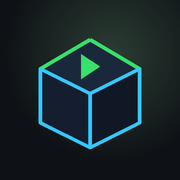
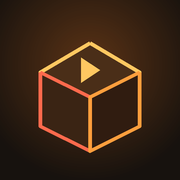
Add files via upload

diff --git a/index.html b/index.html
@@ -3,9 +3,12 @@
 <head>
 <meta charset="utf-8">
 <meta name="viewport" content="width=device-width, initial-scale=1, viewport-fit=cover">
-<meta name="theme-color" content="#0e1116">
+<meta name="theme-color" content="#17120e">
 <title>Play Roblox in Your Browser</title>
-<meta name="description" content="A free launcher that opens Roblox in your browser through the now.gg cloud. No download, no install — works on iPad, Chromebook, phone and PC.">
+<meta name="description" content="Play Roblox free in your browser — powered by now.gg's cloud. No download, no install. Works on iPad, Chromebook, phone and PC.">
+<meta name="apple-mobile-web-app-capable" content="yes">
+<meta name="mobile-web-app-capable" content="yes">
+<meta name="apple-mobile-web-app-status-bar-style" content="black-translucent">
 <meta name="apple-mobile-web-app-title" content="Browser Play">
 <link rel="apple-touch-icon" href="apple-touch-icon.png">
 <link rel="icon" href="icon-192.png">
@@ -13,17 +16,18 @@
 <link rel="preconnect" href="https://fonts.googleapis.com">
 <link rel="stylesheet" href="https://fonts.googleapis.com/css2?family=Sora:wght@500;700;800&family=Inter:wght@400;500;600&display=swap">
 <style>
-/* Layout: dark cloud-gaming landing page — hero launch panel, steps, device grid, FAQ. Deliberate single dark look. */
+/* Layout: warm cloud-gaming landing page — ember hero with launch panel, steps, device grid, trust band, FAQ. Deliberate single warm-dark look. */
 :root {
-  --bg: #0e1116;
-  --bg2: #141924;
-  --panel: #1a2130;
-  --line: rgba(255,255,255,0.09);
-  --ink: #eef2f8;
-  --dim: #97a1b4;
-  --lime: #37e06a;
-  --cyan: #35c7ff;
-  --violet: #8b7bff;
+  --bg: #17120e;
+  --bg2: #1f1811;
+  --panel: #271e15;
+  --line: rgba(255, 210, 160, 0.12);
+  --ink: #f8efe3;
+  --dim: #c3ab93;
+  --amber: #ff9e3d;
+  --coral: #ff6a4d;
+  --gold: #ffc861;
+  --amber-ink: #3a1e05;
   --display: "Sora", system-ui, sans-serif;
   --body: "Inter", system-ui, sans-serif;
   color-scheme: dark;
@@ -35,47 +39,48 @@ img { max-width: 100%; display: block; }
 a { color: inherit; }
 .wrap { width: 100%; max-width: 1040px; margin-inline: auto; padding-left: max(20px, env(safe-area-inset-left)); padding-right: max(20px, env(safe-area-inset-right)); }
 h1, h2, h3 { font-family: var(--display); margin: 0; line-height: 1.1; text-wrap: balance; }
-.eyebrow { font: 700 12px var(--display); letter-spacing: .2em; text-transform: uppercase; color: var(--lime); }
+.eyebrow { font: 700 12px var(--display); letter-spacing: .2em; text-transform: uppercase; color: var(--amber); }
 
 /* nav */
-header { position: sticky; top: 0; z-index: 20; backdrop-filter: blur(12px); background: rgba(14,17,22,.72); border-bottom: 1px solid var(--line); }
+header { position: sticky; top: 0; z-index: 20; backdrop-filter: blur(12px); background: rgba(23,18,14,.74); border-bottom: 1px solid var(--line); }
 header::before { content: ""; position: fixed; inset: 0 0 auto; height: env(safe-area-inset-top); background: var(--bg); z-index: 21; }
 .nav { display: flex; align-items: center; justify-content: space-between; height: 62px; padding-top: env(safe-area-inset-top); }
 .brand { display: flex; align-items: center; gap: 11px; font: 800 19px var(--display); letter-spacing: .01em; }
 .cube { width: 30px; height: 30px; flex: none; }
-.navbtn { font: 700 14px var(--display); letter-spacing: .02em; padding: 9px 18px; border-radius: 10px; background: var(--lime); color: #06240f; text-decoration: none; border: 0; cursor: pointer; }
+.navbtn { font: 700 14px var(--display); letter-spacing: .02em; padding: 9px 18px; border-radius: 11px; background: linear-gradient(100deg, var(--amber), var(--gold)); color: var(--amber-ink); text-decoration: none; border: 0; cursor: pointer; }
 
 /* hero */
-.hero { position: relative; padding: 56px 0 40px; overflow: hidden; }
-.glow { position: absolute; border-radius: 50%; filter: blur(70px); opacity: .5; z-index: 0; }
-.glow.a { width: 420px; height: 420px; background: var(--lime); top: -180px; right: -80px; opacity: .22; }
-.glow.b { width: 360px; height: 360px; background: var(--cyan); bottom: -200px; left: -120px; opacity: .18; }
+.hero { position: relative; padding: 56px 0 44px; overflow: hidden; }
+.glow { position: absolute; border-radius: 50%; filter: blur(80px); z-index: 0; }
+.glow.a { width: 440px; height: 440px; background: var(--coral); top: -170px; right: -70px; opacity: .3; }
+.glow.b { width: 380px; height: 380px; background: var(--amber); bottom: -200px; left: -130px; opacity: .22; }
+.glow.c { width: 300px; height: 300px; background: var(--gold); top: 40%; left: 40%; opacity: .1; }
 .hero .wrap { position: relative; z-index: 1; }
 .hgrid { display: grid; grid-template-columns: 1.15fr 1fr; gap: 40px; align-items: center; }
 .hero h1 { font-size: clamp(36px, 6.4vw, 60px); font-weight: 800; letter-spacing: -.02em; margin-top: 16px; }
-.hero h1 b { background: linear-gradient(100deg, var(--lime), var(--cyan)); -webkit-background-clip: text; background-clip: text; color: transparent; font-weight: 800; }
+.hero h1 b { background: linear-gradient(100deg, var(--gold), var(--coral)); -webkit-background-clip: text; background-clip: text; color: transparent; font-weight: 800; }
 .hero p.lead { color: var(--dim); font-size: clamp(16px, 2.3vw, 19px); margin: 18px 0 26px; max-width: 46ch; }
 .cta { display: flex; flex-wrap: wrap; gap: 12px; align-items: center; }
-.play { display: inline-flex; align-items: center; gap: 12px; font: 800 18px var(--display); letter-spacing: .01em; text-decoration: none; padding: 16px 28px; border-radius: 14px; color: #06240f; background: linear-gradient(100deg, var(--lime), #6ef08f); box-shadow: 0 10px 30px rgba(55,224,106,.3); transition: transform .12s, box-shadow .12s; }
-.play:hover { transform: translateY(-2px); box-shadow: 0 16px 40px rgba(55,224,106,.42); }
+.play { display: inline-flex; align-items: center; gap: 12px; font: 800 18px var(--display); letter-spacing: .01em; text-decoration: none; padding: 16px 28px; border-radius: 14px; color: var(--amber-ink); background: linear-gradient(100deg, var(--amber), var(--gold)); box-shadow: 0 10px 32px rgba(255,138,61,.4); transition: transform .12s, box-shadow .12s; }
+.play:hover { transform: translateY(-2px); box-shadow: 0 16px 44px rgba(255,138,61,.52); }
 .play svg { width: 22px; height: 22px; }
 .sub { font-size: 13px; color: var(--dim); }
 .pill { display: inline-flex; align-items: center; gap: 7px; font-size: 13px; color: var(--dim); }
-.pill::before { content: ""; width: 7px; height: 7px; border-radius: 50%; background: var(--lime); box-shadow: 0 0 8px var(--lime); }
+.pill::before { content: ""; width: 7px; height: 7px; border-radius: 50%; background: var(--gold); box-shadow: 0 0 9px var(--gold); }
 
 /* launch card art */
-.screen { position: relative; aspect-ratio: 4 / 3; border-radius: 18px; background: radial-gradient(130% 120% at 30% 10%, #23304a 0%, #131a27 60%); border: 1px solid var(--line); overflow: hidden; box-shadow: 0 30px 70px rgba(0,0,0,.5); }
-.screen .bar { height: 34px; background: #0d131d; display: flex; align-items: center; gap: 6px; padding: 0 12px; border-bottom: 1px solid var(--line); }
-.screen .bar i { width: 10px; height: 10px; border-radius: 50%; background: #39414f; }
-.screen .bar span { margin-left: 10px; font: 500 11px var(--body); color: #5f6b7e; }
+.screen { position: relative; aspect-ratio: 4 / 3; border-radius: 18px; background: radial-gradient(130% 120% at 30% 10%, #4a3016 0%, #211810 62%); border: 1px solid var(--line); overflow: hidden; box-shadow: 0 30px 70px rgba(0,0,0,.5); }
+.screen .bar { height: 34px; background: #1a130d; display: flex; align-items: center; gap: 6px; padding: 0 12px; border-bottom: 1px solid var(--line); }
+.screen .bar i { width: 10px; height: 10px; border-radius: 50%; background: #4a3b2a; }
+.screen .bar span { margin-left: 10px; font: 500 11px var(--body); color: #8a745c; }
 .screen .body { position: absolute; inset: 34px 0 0; display: grid; place-items: center; }
-.playcube { width: 96px; height: 96px; border-radius: 24px; background: linear-gradient(135deg, var(--lime), var(--cyan)); display: grid; place-items: center; box-shadow: 0 14px 40px rgba(53,199,255,.35); animation: float 4s ease-in-out infinite; }
+.playcube { width: 96px; height: 96px; border-radius: 24px; background: linear-gradient(135deg, var(--amber), var(--coral)); display: grid; place-items: center; box-shadow: 0 14px 44px rgba(255,106,77,.45); animation: float 4s ease-in-out infinite; }
 .playcube svg { width: 42px; height: 42px; margin-left: 5px; }
 @keyframes float { 0%,100% { transform: translateY(-6px); } 50% { transform: translateY(6px); } }
 .blocks { position: absolute; inset: 34px 0 0; pointer-events: none; }
-.blk { position: absolute; border-radius: 7px; opacity: .85; }
+.blk { position: absolute; border-radius: 7px; opacity: .9; }
 
-/* generic section */
+/* section */
 section { padding: 52px 0; }
 .shead { text-align: center; max-width: 44ch; margin: 0 auto 36px; }
 .shead h2 { font-size: clamp(26px, 4vw, 38px); font-weight: 700; }
@@ -84,7 +89,7 @@ section { padding: 52px 0; }
 /* steps */
 .steps { display: grid; grid-template-columns: repeat(3, 1fr); gap: 18px; counter-reset: s; }
 .step { background: var(--panel); border: 1px solid var(--line); border-radius: 16px; padding: 24px 22px; position: relative; }
-.step .n { counter-increment: s; font: 800 14px var(--display); width: 34px; height: 34px; border-radius: 10px; display: grid; place-items: center; background: rgba(55,224,106,.14); color: var(--lime); margin-bottom: 14px; }
+.step .n { counter-increment: s; font: 800 14px var(--display); width: 34px; height: 34px; border-radius: 10px; display: grid; place-items: center; background: rgba(255,158,61,.16); color: var(--amber); margin-bottom: 14px; }
 .step .n::before { content: counter(s, decimal-leading-zero); }
 .step h3 { font-size: 19px; font-weight: 700; margin-bottom: 7px; }
 .step p { color: var(--dim); font-size: 14.5px; margin: 0; }
@@ -92,16 +97,25 @@ section { padding: 52px 0; }
 /* devices */
 .devices { display: grid; grid-template-columns: repeat(auto-fit, minmax(140px, 1fr)); gap: 14px; }
 .dev { background: var(--bg2); border: 1px solid var(--line); border-radius: 14px; padding: 20px 16px; text-align: center; }
-.dev svg { width: 34px; height: 34px; margin: 0 auto 10px; color: var(--cyan); }
+.dev svg { width: 34px; height: 34px; margin: 0 auto 10px; color: var(--gold); }
 .dev b { display: block; font: 600 15px var(--body); }
 .dev span { font-size: 12.5px; color: var(--dim); }
 
-/* trust band */
+/* homescreen */
+.appsteps { display: grid; grid-template-columns: repeat(3, 1fr); gap: 16px; }
+.astep { background: var(--panel); border: 1px solid var(--line); border-radius: 16px; padding: 22px; display: grid; gap: 10px; }
+.astep .ic { width: 46px; height: 46px; border-radius: 13px; background: rgba(255,106,77,.14); display: grid; place-items: center; }
+.astep .ic svg { width: 24px; height: 24px; color: var(--coral); }
+.astep b { font: 700 16px var(--display); }
+.astep p { color: var(--dim); font-size: 14px; margin: 0; }
+.astep kbd { font-family: var(--body); font-weight: 600; color: var(--ink); background: rgba(255,200,97,.14); border-radius: 6px; padding: 1px 7px; }
+
+/* trust */
 .trust { background: linear-gradient(180deg, var(--bg2), var(--bg)); border-block: 1px solid var(--line); }
 .tgrid { display: grid; grid-template-columns: repeat(3, 1fr); gap: 20px; }
 .tcard { display: flex; gap: 14px; align-items: flex-start; }
-.tcard .ic { width: 42px; height: 42px; flex: none; border-radius: 12px; background: rgba(53,199,255,.12); display: grid; place-items: center; }
-.tcard .ic svg { width: 22px; height: 22px; color: var(--cyan); }
+.tcard .ic { width: 42px; height: 42px; flex: none; border-radius: 12px; background: rgba(255,200,97,.14); display: grid; place-items: center; }
+.tcard .ic svg { width: 22px; height: 22px; color: var(--gold); }
 .tcard h3 { font-size: 16.5px; font-weight: 700; margin-bottom: 4px; }
 .tcard p { color: var(--dim); font-size: 14px; margin: 0; }
 
@@ -110,14 +124,14 @@ section { padding: 52px 0; }
 details { background: var(--panel); border: 1px solid var(--line); border-radius: 14px; overflow: hidden; }
 summary { cursor: pointer; list-style: none; padding: 18px 20px; font: 700 16px var(--display); display: flex; justify-content: space-between; align-items: center; gap: 12px; }
 summary::-webkit-details-marker { display: none; }
-summary::after { content: "+"; font-size: 24px; color: var(--lime); font-weight: 400; line-height: 1; transition: transform .2s; }
+summary::after { content: "+"; font-size: 24px; color: var(--amber); font-weight: 400; line-height: 1; transition: transform .2s; }
 details[open] summary::after { transform: rotate(45deg); }
 details p { margin: 0; padding: 0 20px 18px; color: var(--dim); font-size: 14.5px; }
-details a { color: var(--lime); }
+details a { color: var(--amber); }
 
-/* final cta */
+/* final */
 .final { text-align: center; }
-.final .box { background: radial-gradient(120% 140% at 50% 0%, #1c2740, #121824); border: 1px solid var(--line); border-radius: 22px; padding: 46px 28px; }
+.final .box { position: relative; overflow: hidden; background: radial-gradient(120% 150% at 50% 0%, #4a2a12, #1c140d); border: 1px solid var(--line); border-radius: 22px; padding: 48px 28px; }
 .final h2 { font-size: clamp(26px, 4vw, 40px); font-weight: 800; }
 .final p { color: var(--dim); max-width: 42ch; margin: 12px auto 26px; }
 
@@ -130,7 +144,7 @@ footer .brand { font-size: 16px; }
 @media (max-width: 820px) {
   .hgrid { grid-template-columns: 1fr; gap: 30px; }
   .screen { max-width: 440px; }
-  .steps, .tgrid { grid-template-columns: 1fr; }
+  .steps, .tgrid, .appsteps { grid-template-columns: 1fr; }
 }
 @media (prefers-reduced-motion: reduce) { .playcube { animation: none; } .play { transition: none; } }
 </style>
@@ -140,7 +154,7 @@ footer .brand { font-size: 16px; }
 <header>
   <div class="wrap nav">
     <div class="brand">
-      <svg class="cube" viewBox="0 0 32 32" aria-hidden="true"><path d="M16 2 29 9v14L16 30 3 23V9z" fill="none" stroke="#37e06a" stroke-width="2" stroke-linejoin="round"/><path d="M3 9l13 7 13-7M16 16v14" stroke="#35c7ff" stroke-width="2" stroke-linejoin="round" fill="none"/></svg>
+      <svg class="cube" viewBox="0 0 32 32" aria-hidden="true"><path d="M16 2 29 9v14L16 30 3 23V9z" fill="none" stroke="#ff9e3d" stroke-width="2" stroke-linejoin="round"/><path d="M3 9l13 7 13-7M16 16v14" stroke="#ff6a4d" stroke-width="2" stroke-linejoin="round" fill="none"/></svg>
       Browser&nbsp;Play
     </div>
     <a class="navbtn" href="https://now.gg/apps/roblox-corporation/5349/roblox.html" target="_blank" rel="noopener">Launch&nbsp;▸</a>
@@ -149,13 +163,13 @@ footer .brand { font-size: 16px; }
 
 <main>
   <section class="hero">
-    <div class="glow a"></div><div class="glow b"></div>
+    <div class="glow a"></div><div class="glow b"></div><div class="glow c"></div>
     <div class="wrap">
       <div class="hgrid">
         <div>
-          <span class="eyebrow">No download · No install</span>
+          <span class="eyebrow">Free · No download · No install</span>
           <h1>Play <b>Roblox</b> right in your browser</h1>
-          <p class="lead">Launch Roblox from a browser tab through the now.gg cloud. It streams the real game from powerful servers, so it runs on the device you already have — even a school Chromebook or an iPad.</p>
+          <p class="lead">One tap opens Roblox in a browser tab, powered by now.gg's cloud. It streams the real game from powerful servers, so it runs on the device you already have — even a school Chromebook or an iPad.</p>
           <div class="cta">
             <a class="play" href="https://now.gg/apps/roblox-corporation/5349/roblox.html" target="_blank" rel="noopener">
               <svg viewBox="0 0 24 24" fill="currentColor" aria-hidden="true"><path d="M8 5v14l11-7z"/></svg>
@@ -163,18 +177,18 @@ footer .brand { font-size: 16px; }
             </a>
             <span class="pill">Cloud servers online</span>
           </div>
-          <p class="sub" style="margin-top:14px">Opens the official Roblox cloud player in a new tab. You sign in on Roblox's own screen.</p>
+          <p class="sub" style="margin-top:14px">Opens the Roblox cloud player in a new tab. You sign in on Roblox's own screen.</p>
         </div>
         <div class="screen" aria-hidden="true">
           <div class="bar"><i></i><i></i><i></i><span>now.gg · Roblox</span></div>
           <div class="blocks">
-            <div class="blk" style="width:46px;height:46px;background:#37e06a;left:14%;top:22%;transform:rotate(12deg)"></div>
-            <div class="blk" style="width:34px;height:34px;background:#35c7ff;right:18%;top:30%;transform:rotate(-14deg)"></div>
-            <div class="blk" style="width:28px;height:28px;background:#8b7bff;left:24%;bottom:18%;transform:rotate(20deg)"></div>
-            <div class="blk" style="width:40px;height:40px;background:#ffca3a;right:14%;bottom:16%;transform:rotate(-8deg)"></div>
+            <div class="blk" style="width:46px;height:46px;background:#ff9e3d;left:14%;top:22%;transform:rotate(12deg)"></div>
+            <div class="blk" style="width:34px;height:34px;background:#ff6a4d;right:18%;top:30%;transform:rotate(-14deg)"></div>
+            <div class="blk" style="width:28px;height:28px;background:#ffc861;left:24%;bottom:18%;transform:rotate(20deg)"></div>
+            <div class="blk" style="width:40px;height:40px;background:#ff8a5c;right:14%;bottom:16%;transform:rotate(-8deg)"></div>
           </div>
           <div class="body">
-            <div class="playcube"><svg viewBox="0 0 24 24" fill="#06240f" aria-hidden="true"><path d="M8 5v14l11-7z"/></svg></div>
+            <div class="playcube"><svg viewBox="0 0 24 24" fill="#3a1e05" aria-hidden="true"><path d="M8 5v14l11-7z"/></svg></div>
           </div>
         </div>
       </div>
@@ -183,12 +197,9 @@ footer .brand { font-size: 16px; }
 
   <section>
     <div class="wrap">
-      <div class="shead">
-        <span class="eyebrow">How it works</span>
-        <h2>Three taps and you're in</h2>
-      </div>
+      <div class="shead"><span class="eyebrow">How it works</span><h2>Three taps and you're in</h2></div>
       <div class="steps">
-        <div class="step"><div class="n"></div><h3>Tap Play</h3><p>Hit the green button. It opens the Roblox cloud player in a new tab — nothing downloads to your device.</p></div>
+        <div class="step"><div class="n"></div><h3>Tap Play</h3><p>Hit the orange button. It opens the Roblox cloud player in a new tab — nothing downloads to your device.</p></div>
         <div class="step"><div class="n"></div><h3>Sign in to Roblox</h3><p>Log in on Roblox's own sign-in screen inside the cloud player, exactly like you would in the app.</p></div>
         <div class="step"><div class="n"></div><h3>Pick a game and play</h3><p>Your games, friends and avatar are all there. The server streams it to your screen in real time.</p></div>
       </div>
@@ -197,11 +208,31 @@ footer .brand { font-size: 16px; }
 
   <section>
     <div class="wrap">
-      <div class="shead">
-        <span class="eyebrow">Works everywhere</span>
-        <h2>No app store needed</h2>
-        <p>If it has a modern browser and internet, it can play.</p>
+      <div class="shead"><span class="eyebrow">Add it like an app</span><h2>Put it on your Home Screen</h2><p>Make a tappable icon so it opens full-screen, just like a real app — no app store needed.</p></div>
+      <div class="appsteps">
+        <div class="astep">
+          <div class="ic"><svg viewBox="0 0 24 24" fill="none" stroke="currentColor" stroke-width="2"><path d="M12 16V4M8 8l4-4 4 4"/><path d="M4 14v4a2 2 0 0 0 2 2h12a2 2 0 0 0 2-2v-4"/></svg></div>
+          <b>iPhone &amp; iPad</b>
+          <p>Open this page in <b>Safari</b>, tap the <kbd>Share</kbd> button, then <kbd>Add to Home Screen</kbd>, then <kbd>Add</kbd>.</p>
+        </div>
+        <div class="astep">
+          <div class="ic"><svg viewBox="0 0 24 24" fill="none" stroke="currentColor" stroke-width="2"><circle cx="12" cy="5" r="1"/><circle cx="12" cy="12" r="1"/><circle cx="12" cy="19" r="1"/></svg></div>
+          <b>Android &amp; Chromebook</b>
+          <p>In <b>Chrome</b>, tap the <kbd>⋮</kbd> menu, then <kbd>Add to Home screen</kbd> (or <kbd>Install app</kbd>), then confirm.</p>
+        </div>
+        <div class="astep">
+          <div class="ic"><svg viewBox="0 0 24 24" fill="none" stroke="currentColor" stroke-width="2"><rect x="2" y="4" width="20" height="14" rx="2"/><path d="M8 20h8M12 18v2"/></svg></div>
+          <b>PC &amp; Mac</b>
+          <p>In Chrome or Edge, click the <kbd>install</kbd> icon in the address bar to pin it as its own window.</p>
+        </div>
       </div>
+      <p class="sub" style="text-align:center;margin-top:18px">Once added, tapping the icon launches straight here — then one more tap plays Roblox.</p>
+    </div>
+  </section>
+
+  <section>
+    <div class="wrap">
+      <div class="shead"><span class="eyebrow">Works everywhere</span><h2>No app store needed</h2><p>If it has a modern browser and internet, it can play.</p></div>
       <div class="devices">
         <div class="dev"><svg viewBox="0 0 24 24" fill="none" stroke="currentColor" stroke-width="1.8"><rect x="7" y="2" width="10" height="20" rx="2"/><line x1="11" y1="18" x2="13" y2="18"/></svg><b>iPhone</b><span>Safari</span></div>
         <div class="dev"><svg viewBox="0 0 24 24" fill="none" stroke="currentColor" stroke-width="1.8"><rect x="4" y="3" width="16" height="18" rx="2"/><line x1="11" y1="18" x2="13" y2="18"/></svg><b>iPad</b><span>Safari</span></div>
@@ -253,7 +284,7 @@ footer .brand { font-size: 16px; }
 <footer>
   <div class="wrap">
     <div class="fbar">
-      <div class="brand"><svg class="cube" viewBox="0 0 32 32" aria-hidden="true"><path d="M16 2 29 9v14L16 30 3 23V9z" fill="none" stroke="#37e06a" stroke-width="2" stroke-linejoin="round"/><path d="M3 9l13 7 13-7M16 16v14" stroke="#35c7ff" stroke-width="2" stroke-linejoin="round" fill="none"/></svg> Browser Play</div>
+      <div class="brand"><svg class="cube" viewBox="0 0 32 32" aria-hidden="true"><path d="M16 2 29 9v14L16 30 3 23V9z" fill="none" stroke="#ff9e3d" stroke-width="2" stroke-linejoin="round"/><path d="M3 9l13 7 13-7M16 16v14" stroke="#ff6a4d" stroke-width="2" stroke-linejoin="round" fill="none"/></svg> Browser Play</div>
       <a class="navbtn" href="https://now.gg/apps/roblox-corporation/5349/roblox.html" target="_blank" rel="noopener">Launch ▸</a>
     </div>
     <p class="disc">This is an unofficial fan-made launcher. It is not affiliated with, endorsed by, or operated by Roblox Corporation or now.gg. "Roblox" is a trademark of Roblox Corporation. Browser play is provided by <a href="https://now.gg/apps/roblox-corporation/5349/roblox.html" target="_blank" rel="noopener">now.gg</a>; always sign in only on Roblox's own login screen.</p>

diff --git a/README.md b/README.md
@@ -1,6 +1,6 @@
 # ▶ Play Roblox in Your Browser — Free
 
-Play Roblox right in your browser. **No download. No install. Totally free to start.**
+Play Roblox right in your browser. **No download. No install. Free to start.**
 Works on iPad, iPhone, Chromebook, PC and Android — if it has a browser, it can play.
 
 ### [👉 PLAY NOW](https://now.gg/apps/roblox-corporation/5349/roblox.html)
@@ -11,11 +11,26 @@ your browser tab. One tap opens it, you sign in on **Roblox's own login screen**
 and you can jump into any Roblox game — just like the real app, because it *is*
 the real app running in the cloud.
 
+## Add it to your Home Screen (like an app)
+- **iPhone / iPad:** open the site in **Safari**, tap **Share**, then **Add to Home Screen**, then **Add**.
+- **Android / Chromebook:** open it in **Chrome**, tap the **⋮** menu, then **Add to Home screen** (or **Install app**).
+- **PC / Mac:** in Chrome or Edge, click the **install** icon in the address bar.
+
+Tapping the icon opens the site full-screen — then one more tap plays Roblox.
+
 ## Why people like it
 - ⚡ **Instant** — no waiting on a download or install.
 - 💻 **Any device** — even a low-powered school Chromebook.
 - 🎮 **Your real account** — your games, friends and avatar are all there.
-- 🔒 **Your password stays private** — you only ever type it on Roblox's own screen,
+- 🔒 **Password stays private** — you only type it on Roblox's own screen, never on this page.
+
+## Put it online (GitHub Pages)
+1. Upload every file in this folder to your repository:
+   `index.html`, `icon-192.png`, `icon-512.png`, `apple-touch-icon.png`,
+   `manifest.webmanifest`, `README.md`.
+2. Open **Settings → Pages** → Source **Deploy from a branch** → branch **main**,
+   folder **/ (root)** → **Save**.
+3. After ~1 minute it's live at `https://<your-username>.github.io/<repo>/`.
 
 ---
 *Unofficial fan-made launcher. Not affiliated with or endorsed by Roblox Corporation
